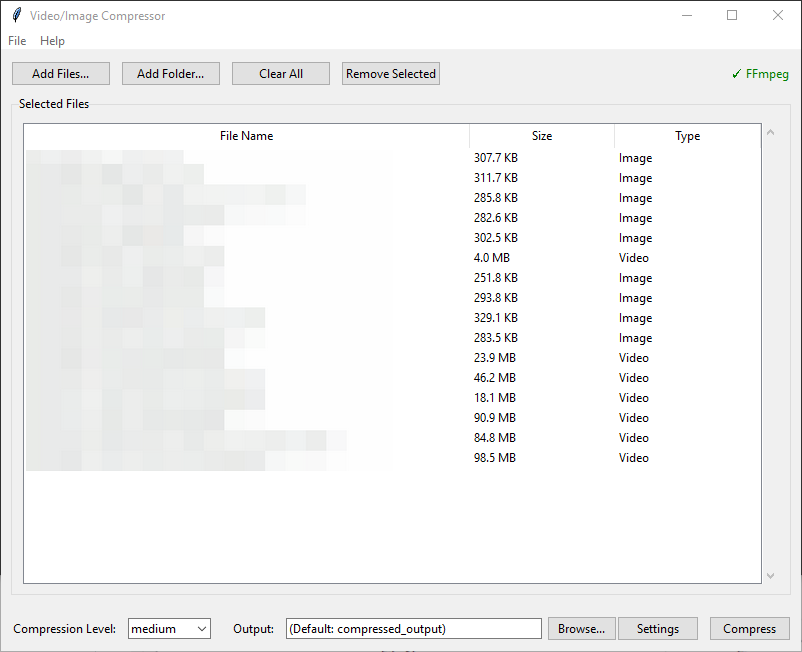
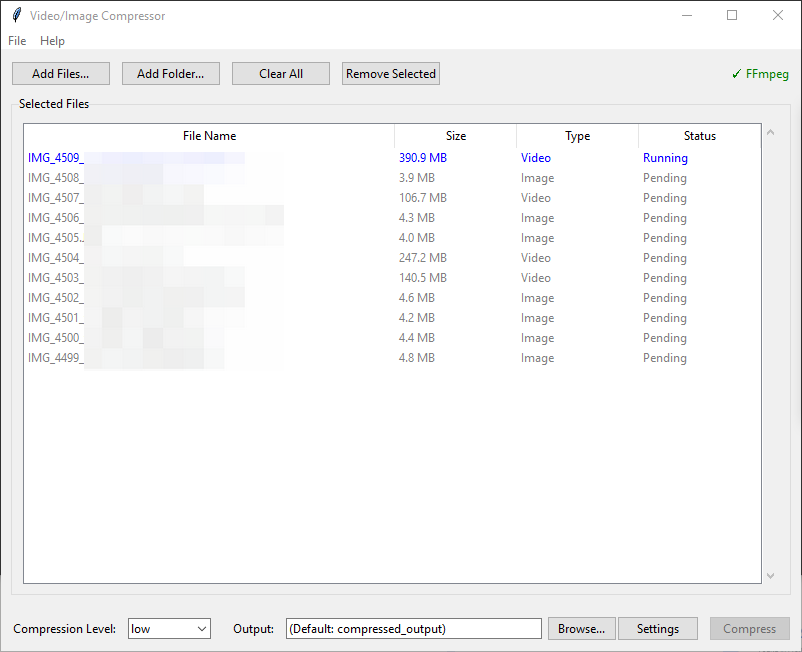
Update README and main_window.py with improved progress tracking and status updates

diff --git a/gui/main_window.py b/gui/main_window.py
@@ -145,16 +145,18 @@ class MainWindow:
         list_frame.pack(fill=tk.BOTH, expand=True, padx=10, pady=(0, 10))
 
         # Treeview for file list
-        columns = ('name', 'size', 'type')
+        columns = ('name', 'size', 'type', 'status')
         self.file_tree = ttk.Treeview(list_frame, columns=columns, show='headings', selectmode='extended')
 
         self.file_tree.heading('name', text='File Name')
         self.file_tree.heading('size', text='Size')
         self.file_tree.heading('type', text='Type')
+        self.file_tree.heading('status', text='Status')
 
-        self.file_tree.column('name', width=400)
+        self.file_tree.column('name', width=350)
         self.file_tree.column('size', width=100)
         self.file_tree.column('type', width=100)
+        self.file_tree.column('status', width=100)
 
         # Scrollbar
         scrollbar = ttk.Scrollbar(list_frame, orient=tk.VERTICAL, command=self.file_tree.yview)
@@ -162,6 +164,13 @@ class MainWindow:
 
         self.file_tree.pack(side=tk.LEFT, fill=tk.BOTH, expand=True)
         scrollbar.pack(side=tk.RIGHT, fill=tk.Y)
+
+        # Define item tags for status coloring
+        self.file_tree.tag_configure('pending', foreground='gray')
+        self.file_tree.tag_configure('running', foreground='blue')
+        self.file_tree.tag_configure('completed', foreground='green')
+        self.file_tree.tag_configure('failed', foreground='red')
+        self.file_tree.tag_configure('aborted', foreground='orange')
 
         # Bind keyboard events
         self.file_tree.bind('<Delete>', lambda e: self._remove_selected())
@@ -282,7 +291,12 @@ class MainWindow:
                 }.get(media_type, "Unknown")
 
                 # Add to treeview
-                self.file_tree.insert('', tk.END, values=(os.path.basename(file_path), size_str, type_str))
+                self.file_tree.insert(
+                    '', 
+                    tk.END, 
+                    values=(os.path.basename(file_path), size_str, type_str, "Pending"),
+                    tags=('pending',)
+                )
 
     def _clear_files(self):
         """Clear all selected files."""
@@ -498,6 +512,13 @@ class MainWindow:
             )
             return
 
+        # Reset all file statuses to Pending
+        for item_id in self.file_tree.get_children():
+            values = list(self.file_tree.item(item_id, 'values'))
+            if len(values) > 3:
+                values[3] = "Pending"
+                self.file_tree.item(item_id, values=values, tags=('pending',))
+
         # Disable compress button
         self.compress_button.config(state=tk.DISABLED)
 
@@ -554,6 +575,22 @@ class MainWindow:
         # Reset abort flag at start
         self._abort_requested = False
 
+        # Get item IDs for all files in the treeview
+        tree_items = self.file_tree.get_children()
+
+        def update_item_status(idx, status, tag):
+            """Safely update treeview item status from thread."""
+            if idx < len(tree_items):
+                item_id = tree_items[idx]
+                try:
+                    # Get current values and update the status column (index 3)
+                    values = list(self.file_tree.item(item_id, 'values'))
+                    if len(values) > 3:
+                        values[3] = status
+                        self.file_tree.item(item_id, values=values, tags=(tag,))
+                except tk.TclError:
+                    pass
+
         ffmpeg_path = self.config.get('ffmpeg', {}).get('path', '')
         level = self.compression_level.get()
 
@@ -582,7 +619,13 @@ class MainWindow:
         for i, file_path in enumerate(self.selected_files):
             # Check for abort at start of each file
             if self._abort_requested:
+                # Mark remaining files as aborted
+                for j in range(i, total_files):
+                    self.root.after(0, lambda idx=j: update_item_status(idx, "Aborted", "aborted"))
                 break
+
+            # Mark current file as running
+            self.root.after(0, lambda idx=i: update_item_status(idx, "Running", "running"))
 
             # Determine output path
             if output_dir:
@@ -609,37 +652,47 @@ class MainWindow:
             media_type = detect_media_type(file_path)
             result = False
 
-            if media_type == MediaType.VIDEO:
-                result = self.video_compressor.compress(
-                    file_path,
-                    output_file,
-                    level,
-                    self.config.get('video', {}).get(level, {})
-                )
-            elif media_type == MediaType.IMAGE:
-                result = self.image_compressor.compress(
-                    file_path,
-                    output_file,
-                    level,
-                    self.config.get('image', {}).get(level, {})
-                )
-            else:
-                # Try video compressor for unknown types
-                result = self.video_compressor.compress(
-                    file_path,
-                    output_file,
-                    level,
-                    self.config.get('video', {}).get(level, {})
-                )
+            try:
+                if media_type == MediaType.VIDEO:
+                    result = self.video_compressor.compress(
+                        file_path,
+                        output_file,
+                        level,
+                        self.config.get('video', {}).get(level, {})
+                    )
+                elif media_type == MediaType.IMAGE:
+                    result = self.image_compressor.compress(
+                        file_path,
+                        output_file,
+                        level,
+                        self.config.get('image', {}).get(level, {})
+                    )
+                else:
+                    # Try video compressor for unknown types
+                    result = self.video_compressor.compress(
+                        file_path,
+                        output_file,
+                        level,
+                        self.config.get('video', {}).get(level, {})
+                    )
+            except Exception as e:
+                print(f"Error compressing {file_path}: {e}")
+                result = False
 
             # Check if aborted during compression
             if self._abort_requested:
+                self.root.after(0, lambda idx=i: update_item_status(idx, "Aborted", "aborted"))
+                # Mark remaining files as aborted
+                for j in range(i + 1, total_files):
+                    self.root.after(0, lambda idx=j: update_item_status(idx, "Aborted", "aborted"))
                 break
 
             if result:
                 successful += 1
+                self.root.after(0, lambda idx=i: update_item_status(idx, "Completed", "completed"))
             else:
                 failed += 1
+                self.root.after(0, lambda idx=i: update_item_status(idx, "Failed", "failed"))
 
             # Check for errors (safely)
             video_error = getattr(self.video_compressor, 'progress', None)
@@ -660,6 +713,7 @@ class MainWindow:
                     except (tk.TclError, AttributeError):
                         pass
                 self.root.after(0, safe_set_error)
+
 
         # Re-enable compress button
         self.root.after(0, lambda: self.compress_button.config(state=tk.NORMAL))

diff --git a/README.md b/README.md
@@ -19,8 +19,8 @@ A desktop application for compressing videos and images using FFmpeg. Provides a
 - **Video Compression**: Compress MP4, MOV, AVI, MKV, and other video formats
 - **Image Compression**: Compress JPG, PNG, WebP images
 - **Apple MOV Support**: Proper handling of iPhone MOV recordings (H.264/H.265)
-- **Batch Processing**: Compress multiple files at once
-- **Progress Tracking**: Real-time progress updates with time estimates
+- **Batch Processing**: Compress multiple files at once with individual status tracking
+- **Progress Tracking**: Real-time progress updates in both the main window file list and a dedicated progress dialog with time estimates
 - **Abort Functionality**: Stop compression anytime with proper FFmpeg process termination
 - **Drag & Drop**: Drag files directly into the application window
 - **File Management**: Remove individual files or clear all with keyboard shortcuts
@@ -113,8 +113,10 @@ python main.py
 3. **Choose Level**: Select compression level (Low/Medium/High)
 4. **Configure Output** (optional): Click "Browse..." to set output directory
 5. **Compress**: Click "Compress" to start
-6. **Monitor Progress**: View progress in the dialog window with time estimates
-7. **Abort**: Click red "Abort" button to stop compression (FFmpeg processes terminated immediately, partial files cleaned up)
+6. **Monitor Progress**: 
+   - View overall progress in the dialog window with time estimates
+   - Track individual file status (Pending/Running/Completed/Failed) directly in the main window file list
+7. **Abort**: Click red "Abort" button to stop compression (FFmpeg processes terminated immediately, partial files cleaned up; remaining files marked as "Aborted" in list)
 
 ### Settings
 
